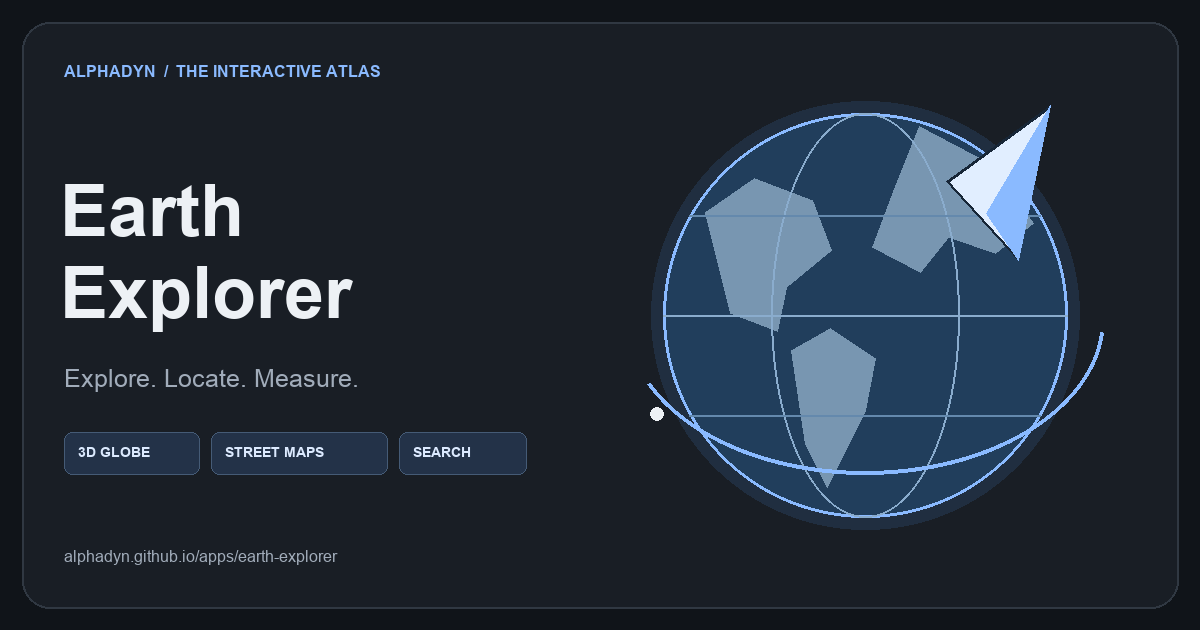
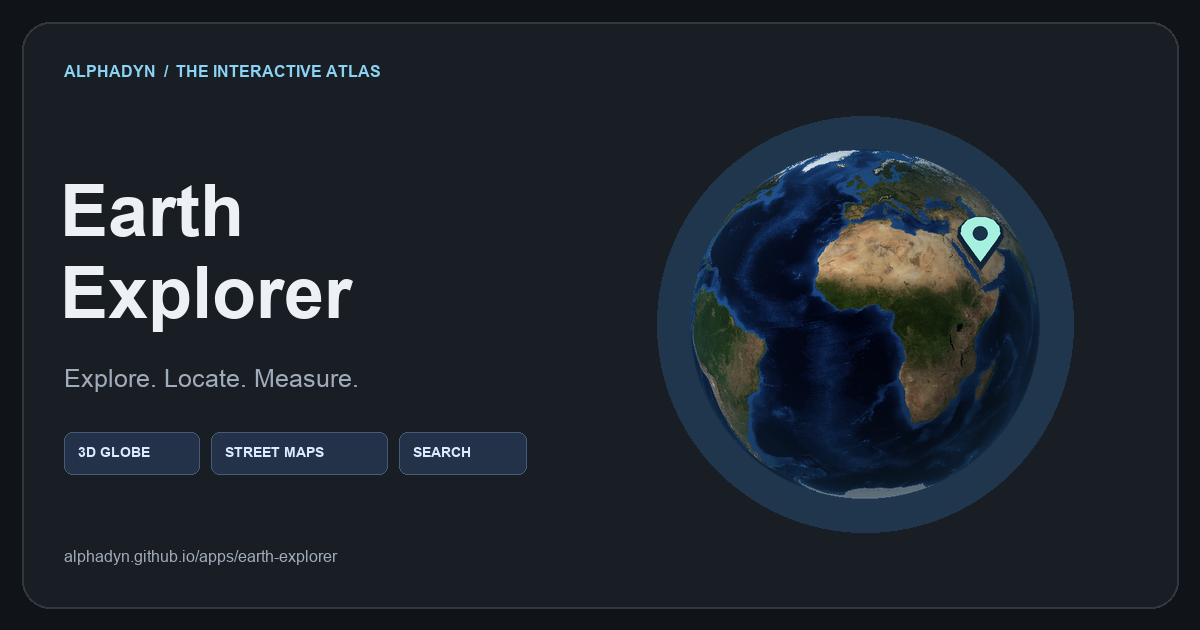
Use realistic Earth branding

Changed region(s): [[0.5242, 0.1508, 0.925, 0.8444], [0.1542, 0.0905, 0.3083, 0.1206], [0.0617, 0.0905, 0.1233, 0.1206]]

diff --git a/earth-explorer/index.html b/earth-explorer/index.html
@@ -18,14 +18,14 @@
       content="Share a location and zoom level with a link, then explore it on an interactive 3D atlas with street maps, search, and measurement tools."
     >
     <meta property="og:url" content="https://alphadyn.github.io/apps/earth-explorer/">
-    <meta property="og:image" content="https://alphadyn.github.io/apps/earth-explorer/social-preview.png">
-    <meta property="og:image:secure_url" content="https://alphadyn.github.io/apps/earth-explorer/social-preview.png">
+    <meta property="og:image" content="https://alphadyn.github.io/apps/earth-explorer/social-preview.png?v=3">
+    <meta property="og:image:secure_url" content="https://alphadyn.github.io/apps/earth-explorer/social-preview.png?v=3">
     <meta property="og:image:type" content="image/png">
     <meta property="og:image:width" content="1200">
     <meta property="og:image:height" content="630">
     <meta
       property="og:image:alt"
-      content="Earth Explorer dark atlas card with a globe and compass, featuring 3D exploration, street maps, and search."
+      content="Earth Explorer sharing card with a realistic Blue Marble globe and a location pin."
     >
     <meta name="twitter:card" content="summary_large_image">
     <meta name="twitter:title" content="Earth Explorer — Share a 3D Globe View">
@@ -33,13 +33,13 @@
       name="twitter:description"
       content="Share a location and zoom level with a link, then explore it on an interactive 3D atlas with street maps, search, and measurement tools."
     >
-    <meta name="twitter:image" content="https://alphadyn.github.io/apps/earth-explorer/social-preview.png">
+    <meta name="twitter:image" content="https://alphadyn.github.io/apps/earth-explorer/social-preview.png?v=3">
     <meta
       name="twitter:image:alt"
-      content="Earth Explorer dark atlas card with a globe and compass, featuring 3D exploration, street maps, and search."
+      content="Earth Explorer sharing card with a realistic Blue Marble globe and a location pin."
     >
     <meta name="theme-color" content="#f4f5f7" />
-    <link rel="icon" href="app-icon.svg?v=2" type="image/svg+xml" />
+    <link rel="icon" href="app-icon.png?v=5" type="image/png" />
     <link rel="stylesheet" href="styles.css?v=16" />
   </head>
   <body>
@@ -47,7 +47,7 @@
       <header class="topbar">
         <div class="brand">
           <a href="./" aria-label="Reset Earth Explorer" title="Reset Earth Explorer">
-            <img class="brand-icon" src="app-icon.svg?v=2" alt="" width="44" height="44" />
+            <img class="brand-icon" src="app-icon.png?v=5" alt="" width="44" height="44" />
           </a>
           <div>
             <p class="eyebrow">The interactive atlas</p>

diff --git a/earth-explorer/generate_social_preview.py b/earth-explorer/generate_social_preview.py
@@ -1,4 +1,4 @@
-"""Generate the Earth Explorer sharing card using Pillow."""
+"""Generate Earth Explorer's realistic Earth icon and sharing card using Pillow."""
 
 import math
 from pathlib import Path
@@ -7,7 +7,77 @@ from PIL import Image, ImageDraw, ImageFont
 
 ROOT = Path(__file__).resolve().parent
 WIDTH, HEIGHT = 1200, 630
-ACCENT = "#8abaff"
+ACCENT = "#8bd3f4"
+TEXTURE_PATH = ROOT / "assets" / "earth-blue-marble.jpg"
+
+
+def render_earth(size):
+    texture = Image.open(TEXTURE_PATH).convert("RGB")
+    pixels = texture.load()
+    texture_width, texture_height = texture.size
+    earth = Image.new("RGBA", (size, size), (0, 0, 0, 0))
+    output = earth.load()
+    center = (size - 1) / 2
+    radius = size * 0.46
+    light = (-0.42, 0.32, 0.85)
+    light_length = math.sqrt(sum(component * component for component in light))
+    light = tuple(component / light_length for component in light)
+
+    for y in range(size):
+        ny = (center - y) / radius
+        if abs(ny) > 1:
+            continue
+        for x in range(size):
+            nx = (x - center) / radius
+            distance_squared = nx * nx + ny * ny
+            if distance_squared > 1:
+                continue
+            nz = math.sqrt(1 - distance_squared)
+            longitude = math.atan2(nx, nz)
+            latitude = math.asin(ny)
+            u = (0.5 + longitude / (2 * math.pi)) % 1
+            v = 0.5 - latitude / math.pi
+            color = pixels[
+                min(texture_width - 1, int(u * texture_width)),
+                min(texture_height - 1, int(v * texture_height)),
+            ]
+            illumination = 0.34 + 0.66 * max(
+                0, nx * light[0] + ny * light[1] + nz * light[2]
+            )
+            limb = max(0, 1 - nz)
+            glow = limb * 0.22
+            output[x, y] = (
+                min(255, int(color[0] * illumination + 72 * glow)),
+                min(255, int(color[1] * illumination + 157 * glow)),
+                min(255, int(color[2] * illumination + 220 * glow)),
+                255,
+            )
+    return earth.resize((size, size), Image.Resampling.LANCZOS)
+
+
+def draw_location_marker(image, center, size):
+    scale = size / 100
+    marker = Image.new("RGBA", (int(100 * scale * 2), int(110 * scale * 2)), (0, 0, 0, 0))
+    draw = ImageDraw.Draw(marker)
+    draw_scale = 2 * scale
+    point = [(50, 100), (19, 57), (10, 43), (12, 27), (24, 14),
+             (39, 8), (61, 8), (76, 14), (88, 27), (90, 43), (81, 57)]
+    shape = [(round(x * draw_scale), round(y * draw_scale)) for x, y in point]
+    draw.polygon(shape, fill="#102337")
+    inner = [(round((x - 50) * draw_scale * 0.83 + 50 * draw_scale),
+              round((y - 10) * draw_scale * 0.83 + 10 * draw_scale))
+             for x, y in point]
+    draw.polygon(inner, fill="#a5f0df")
+    hole_radius = round(12 * draw_scale)
+    draw.ellipse(
+        (50 * draw_scale - hole_radius, 37 * draw_scale - hole_radius,
+         50 * draw_scale + hole_radius, 37 * draw_scale + hole_radius),
+        fill="#17344a",
+    )
+    marker = marker.resize((round(100 * scale), round(110 * scale)), Image.Resampling.LANCZOS)
+    x = round(center[0] - marker.width / 2)
+    y = round(center[1] - marker.height / 2)
+    image.alpha_composite(marker, (x, y))
 
 
 def font(size, bold=False):
@@ -36,25 +106,29 @@ def generate():
         draw.text((x + 14, 444), label, font=font(14, True), fill="#dceaff")
     draw.text((64, 547), "alphadyn.github.io/apps/earth-explorer", font=font(16), fill="#a1acba")
 
-    cx, cy, radius = 865, 315, 202
-    draw.ellipse((cx - radius - 12, cy - radius - 12, cx + radius + 12, cy + radius + 12), fill="#202e40")
-    draw.ellipse((cx - radius, cy - radius, cx + radius, cy + radius), fill="#213e5c", outline=ACCENT, width=3)
-    draw.polygon([(705, 212), (754, 178), (812, 200), (831, 250), (786, 287),
-                  (777, 331), (730, 313)], fill="#7896b1")
-    draw.polygon([(791, 350), (830, 328), (875, 358), (865, 410),
-                  (827, 487), (805, 444)], fill="#7896b1")
-    draw.polygon([(919, 126), (989, 163), (1033, 223), (995, 253),
-                  (948, 237), (920, 272), (872, 247), (893, 191)], fill="#7896b1")
-    draw.ellipse((cx - 94, cy - radius, cx + 94, cy + radius), outline="#8aaccd", width=2)
-    draw.line((cx - radius, cy, cx + radius, cy), fill="#8aaccd", width=2)
-    for offset in [-100, 100]:
-        half = math.sqrt(radius ** 2 - offset ** 2)
-        draw.line((cx - half, cy + offset, cx + half, cy + offset), fill="#6489ad", width=2)
-    draw.arc((625, 163, 1104, 474), 5, 155, fill=ACCENT, width=4)
-    draw.polygon([(1050, 105), (1018, 260), (946, 181)], fill="#e1eeff", outline="#172637", width=3)
-    draw.polygon([(1050, 105), (986, 213), (1018, 260)], fill="#8abaff")
-    draw.ellipse((650, 407, 663, 420), fill="#edf1f5")
+    cx, cy, radius = 865, 324, 190
+    draw.ellipse(
+        (cx - radius - 18, cy - radius - 18, cx + radius + 18, cy + radius + 18),
+        fill="#20364d",
+    )
+    globe = render_earth(520)
+    globe = globe.resize((radius * 2, radius * 2), Image.Resampling.LANCZOS)
+    image_rgba = image.convert("RGBA")
+    image_rgba.alpha_composite(globe, (cx - radius, cy - radius))
+    draw_location_marker(image_rgba, (cx + 115, cy - 80), 58)
+    image = image_rgba.convert("RGB")
     image.save(ROOT / "social-preview.png", optimize=True)
+
+    icon_size = 512
+    icon = Image.new("RGBA", (icon_size, icon_size), (0, 0, 0, 0))
+    icon_draw = ImageDraw.Draw(icon)
+    icon_draw.rounded_rectangle(
+        (8, 8, 504, 504), 112, fill="#142336", outline="#48617a", width=8
+    )
+    icon_earth = render_earth(440)
+    icon.alpha_composite(icon_earth, (36, 36))
+    draw_location_marker(icon, (376, 150), 72)
+    icon.save(ROOT / "app-icon.png", optimize=True)
 
 
 if __name__ == "__main__":

diff --git a/earth-explorer/README.md b/earth-explorer/README.md
@@ -91,8 +91,12 @@ Click the app icon in the header to reload the entry page and return the globe t
 - `street-map.js` — Web Mercator tile selection, spherical projection, and tile loading/disposal
 - `location-search.js` — submitted geocoding searches, result selection, and error reporting
 - `styles.css` — layout and visual styling
+- `assets/earth-blue-marble.jpg` — Blue Marble Earth texture used to render the icon and sharing card
+- `app-icon.png` — high-resolution Earth icon used in the header and as the favicon
 - `social-preview.png` — 1200 × 630 sharing card used by Open Graph and Twitter metadata
 - `generate_social_preview.py` — regenerate the sharing card with `python3 earth-explorer/generate_social_preview.py` from the repository root (requires Pillow)
+
+The Blue Marble texture is from the `three-globe` example assets and is NASA Earth imagery.
 
 ## Notes
 - Search queries are sent to the public Nominatim service only on submission, not while
